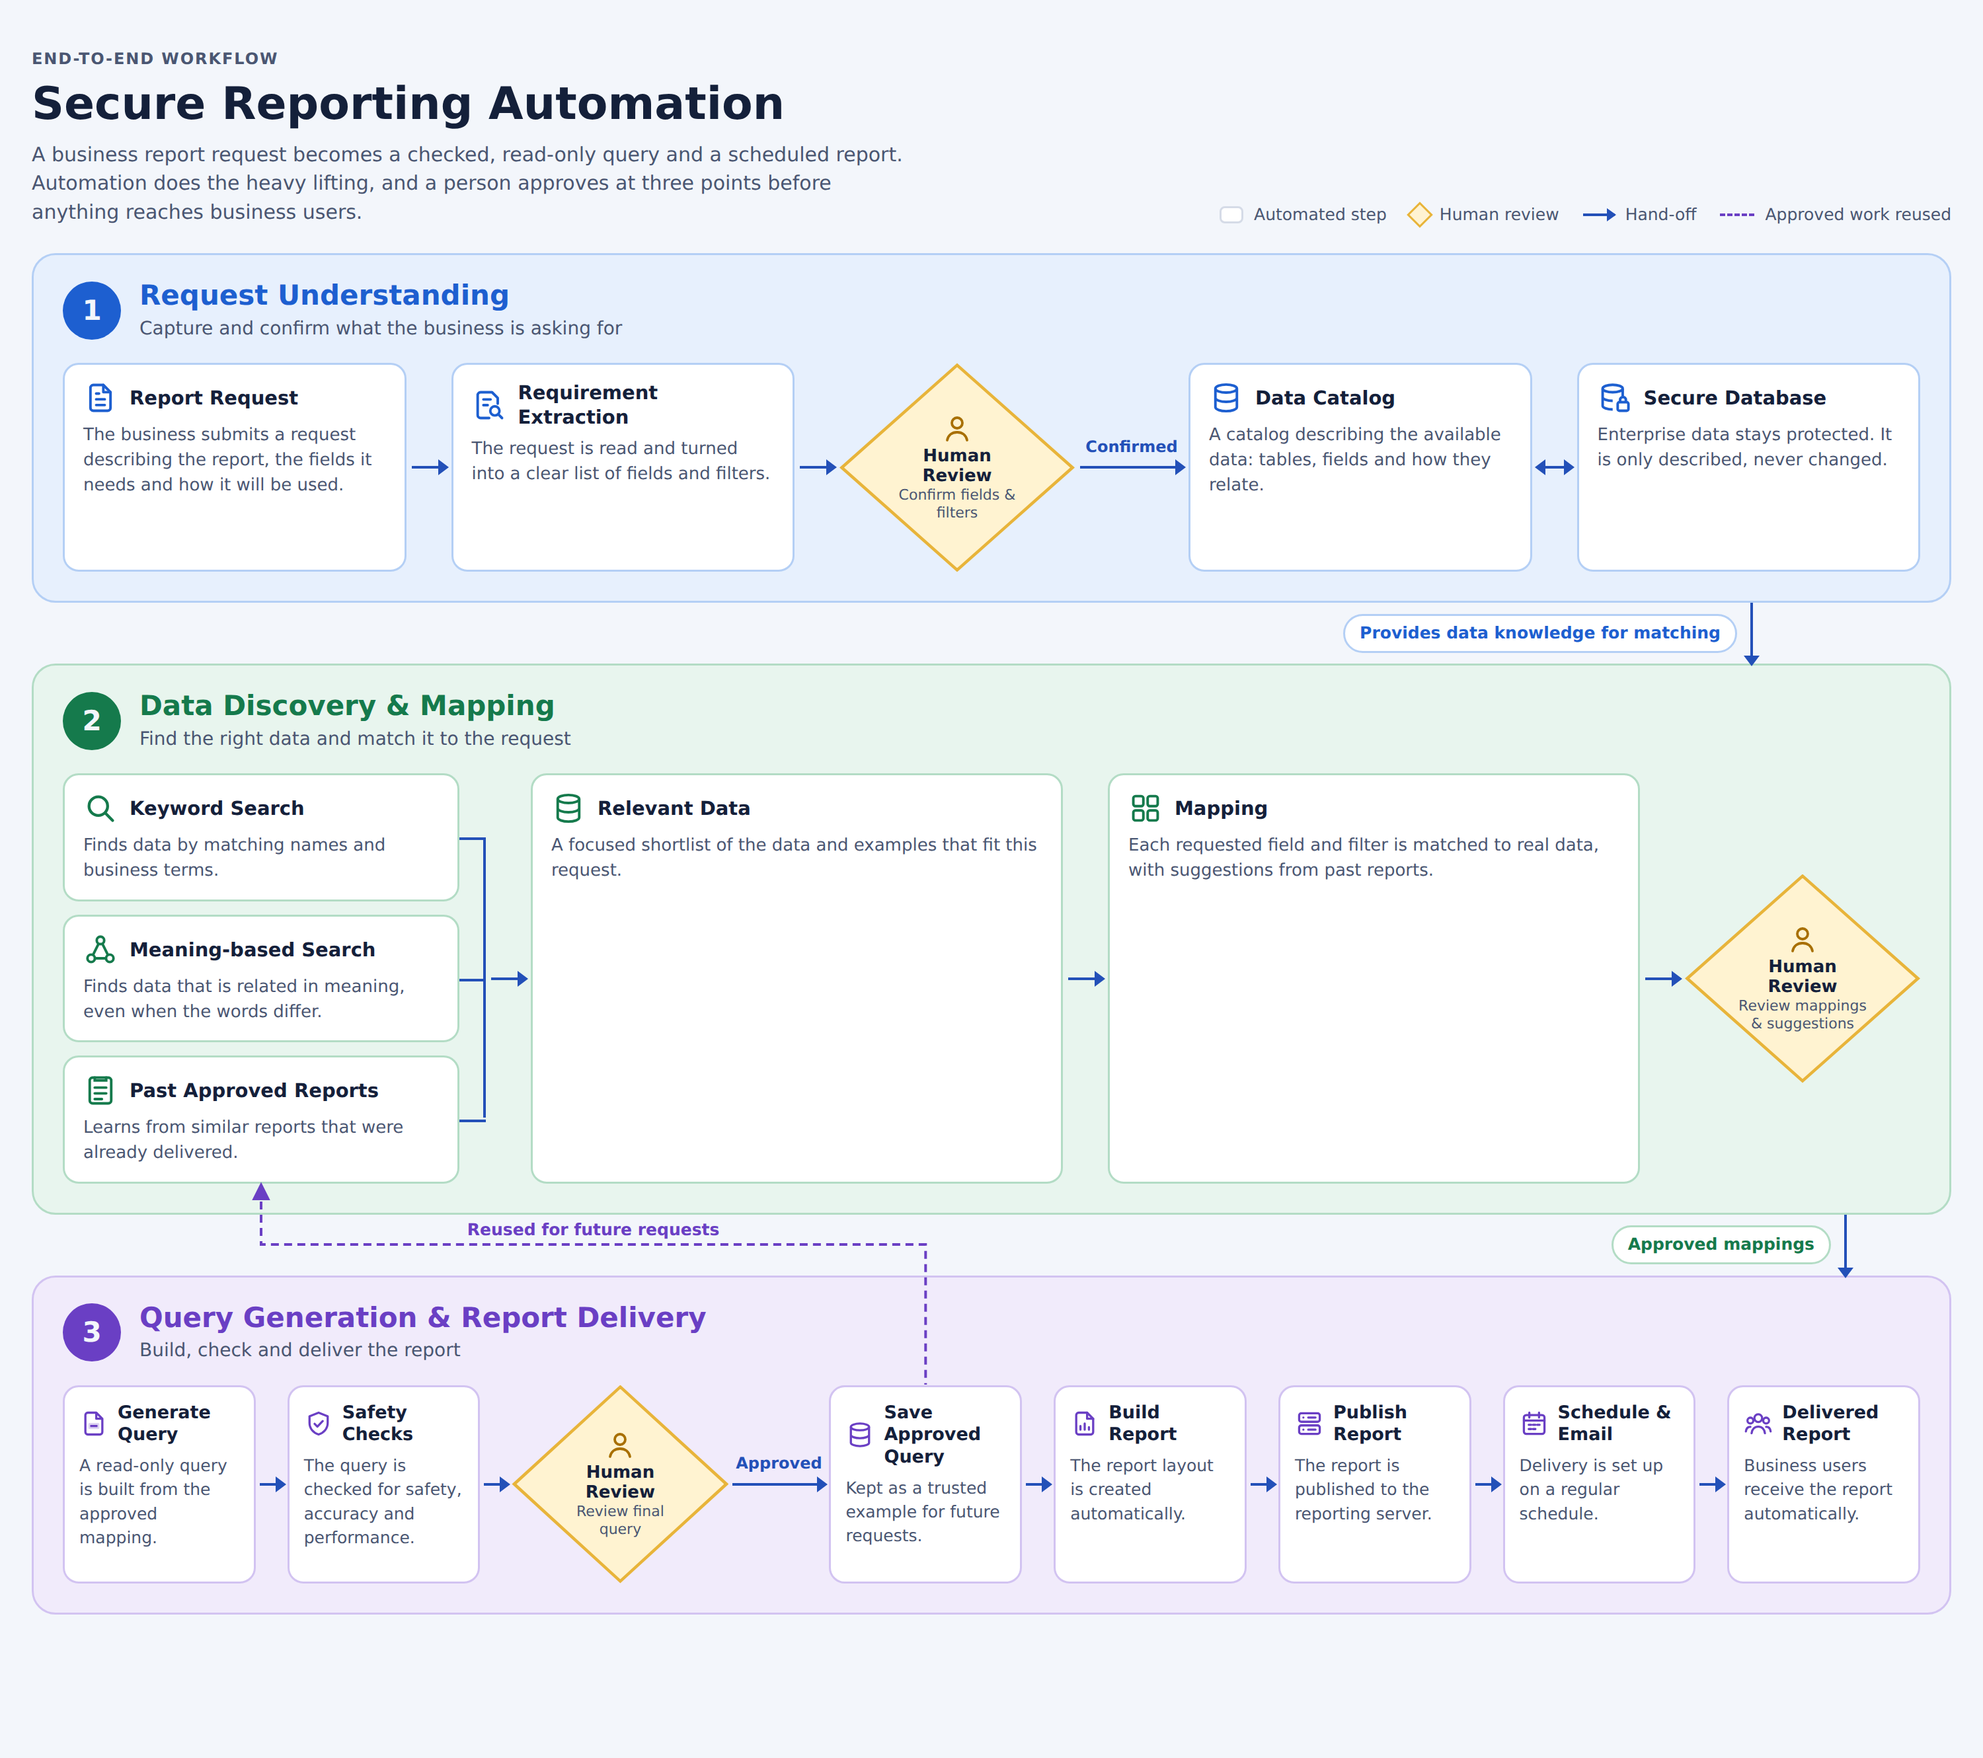
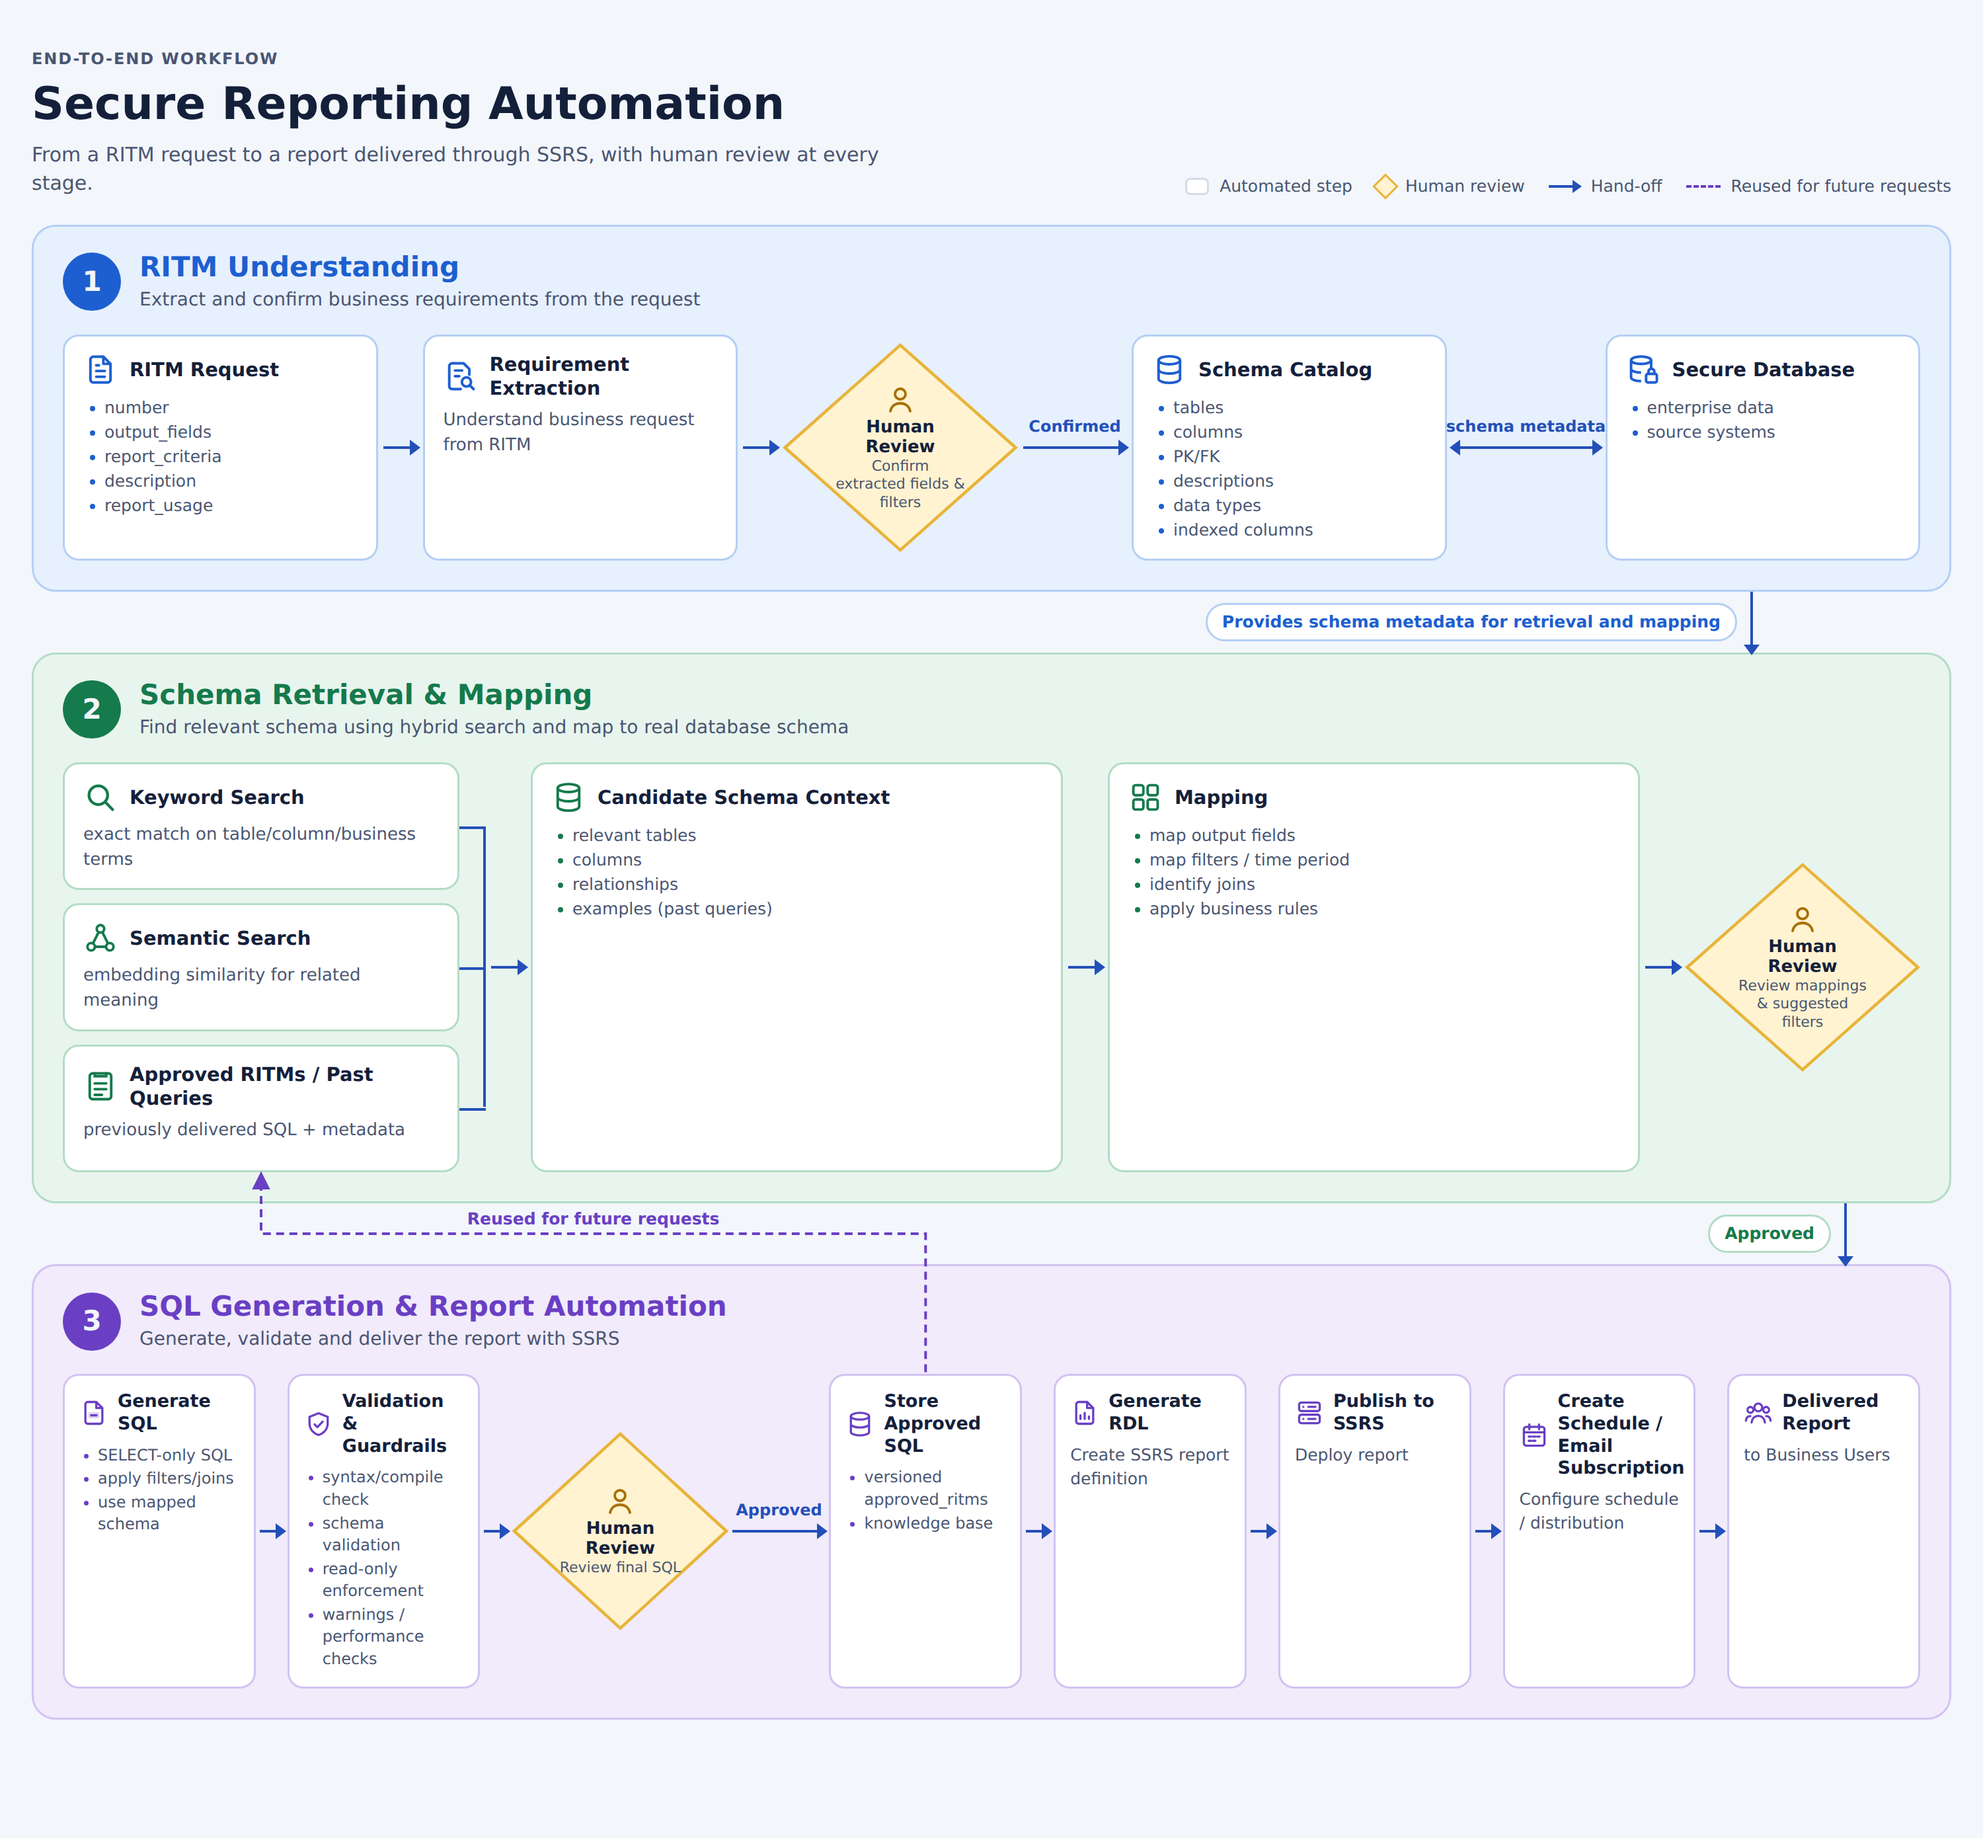
Match workflow diagram wording to the reference design
Claude-Session: https://claude.ai/code/session_01UDvfRKTWcwQ7bnJyXfYpaQ

diff --git a/docs/secure-reporting-automation.html b/docs/secure-reporting-automation.html
@@ -85,6 +85,7 @@ h1{font-family:var(--display); font-size:clamp(24px,3vw,34px); line-height:1.15;
 .arr::after{content:""; position:absolute; right:-2px; top:-5px; border:6px solid transparent; border-left:8px solid var(--arrow); border-right:0}
 .arr.both::before{content:""; position:absolute; left:-2px; top:-5px; border:6px solid transparent; border-right:8px solid var(--arrow); border-left:0}
 .arr.lab{flex-basis:78px}
+.arr.lab.wide{flex-basis:112px}
 .arr .lbl{position:absolute; bottom:8px; left:50%; transform:translateX(-50%); font-size:12px; font-weight:700; color:var(--arrow); white-space:nowrap}
 
 /* review gate (diamond) */
@@ -124,6 +125,7 @@ footer b{color:var(--ink); font-weight:600}
   .p3 .card h3{font-size:13.5px; gap:7px}
   .p3 .card h3 svg{width:22px; height:22px}
   .p3 .card .sub{font-size:12.5px}
+  .p3 .card ul{font-size:12px; padding-left:14px}
   .p3 .arr{flex-basis:18px; margin:0 3px}
   .p3 .arr.lab{flex-basis:70px}
   .p3 .gate{flex-basis:164px; height:150px; padding:0 34px}
@@ -177,13 +179,13 @@ footer b{color:var(--ink); font-weight:600}
     <div>
       <p class="eyebrow">End-to-end workflow</p>
       <h1>Secure Reporting Automation</h1>
-      <p class="lede">A business report request becomes a checked, read-only query and a scheduled report. Automation does the heavy lifting, and a person approves at three points before anything reaches business users.</p>
+      <p class="lede">From a RITM request to a report delivered through SSRS, with human review at every stage.</p>
     </div>
     <div class="legend" aria-label="Legend">
       <span><i class="lg-card"></i>Automated step</span>
       <span><i class="lg-gate"></i>Human review</span>
       <span><i class="lg-arrow"></i>Hand-off</span>
-      <span><i class="lg-loop"></i>Approved work reused</span>
+      <span><i class="lg-loop"></i>Reused for future requests</span>
     </div>
   </header>
 
@@ -193,131 +195,131 @@ footer b{color:var(--ink); font-weight:600}
       <section class="phase p1" aria-labelledby="h-p1">
         <div class="phase-head">
           <span class="num">1</span>
-          <div><h2 id="h-p1">Request Understanding</h2><p>Capture and confirm what the business is asking for</p></div>
+          <div><h2 id="h-p1">RITM Understanding</h2><p>Extract and confirm business requirements from the request</p></div>
         </div>
         <div class="flow">
           <article class="card">
-            <h3><svg><use href="#i-doc"/></svg>Report Request</h3>
-            <p class="sub">The business submits a request describing the report, the fields it needs and how it will be used.</p>
+            <h3><svg><use href="#i-doc"/></svg>RITM Request</h3>
+            <ul><li>number</li><li>output_fields</li><li>report_criteria</li><li>description</li><li>report_usage</li></ul>
           </article>
           <div class="arr"></div>
           <article class="card">
             <h3><svg><use href="#i-docsearch"/></svg>Requirement Extraction</h3>
-            <p class="sub">The request is read and turned into a clear list of fields and filters.</p>
+            <p class="sub">Understand business request from RITM</p>
           </article>
           <div class="arr"></div>
           <div class="gate">
             <svg><use href="#i-person"/></svg>
             <b>Human Review</b>
-            <small>Confirm fields &amp; filters</small>
+            <small>Confirm extracted fields &amp; filters</small>
           </div>
           <div class="arr lab"><span class="lbl">Confirmed</span></div>
           <article class="card">
-            <h3><svg><use href="#i-db"/></svg>Data Catalog</h3>
-            <p class="sub">A catalog describing the available data: tables, fields and how they relate.</p>
+            <h3><svg><use href="#i-db"/></svg>Schema Catalog</h3>
+            <ul><li>tables</li><li>columns</li><li>PK/FK</li><li>descriptions</li><li>data types</li><li>indexed columns</li></ul>
           </article>
-          <div class="arr both"></div>
+          <div class="arr both lab wide"><span class="lbl">schema metadata</span></div>
           <article class="card">
             <h3><svg><use href="#i-dblock"/></svg>Secure Database</h3>
-            <p class="sub">Enterprise data stays protected. It is only described, never changed.</p>
+            <ul><li>enterprise data</li><li>source systems</li></ul>
           </article>
         </div>
       </section>
 
       <div class="handoff p1" style="--hand-x:150px">
-        <span class="pill">Provides data knowledge for matching</span>
+        <span class="pill">Provides schema metadata for retrieval and mapping</span>
         <span class="down"></span>
       </div>
 
       <section class="phase p2" aria-labelledby="h-p2">
         <div class="phase-head">
           <span class="num">2</span>
-          <div><h2 id="h-p2">Data Discovery &amp; Mapping</h2><p>Find the right data and match it to the request</p></div>
+          <div><h2 id="h-p2">Schema Retrieval &amp; Mapping</h2><p>Find relevant schema using hybrid search and map to real database schema</p></div>
         </div>
         <div class="flow">
           <div class="sources">
             <article class="card">
               <h3><svg><use href="#i-search"/></svg>Keyword Search</h3>
-              <p class="sub">Finds data by matching names and business terms.</p>
+              <p class="sub">exact match on table/column/business terms</p>
             </article>
             <article class="card">
-              <h3><svg><use href="#i-graph"/></svg>Meaning-based Search</h3>
-              <p class="sub">Finds data that is related in meaning, even when the words differ.</p>
+              <h3><svg><use href="#i-graph"/></svg>Semantic Search</h3>
+              <p class="sub">embedding similarity for related meaning</p>
             </article>
             <article class="card" id="approved-src">
-              <h3><svg><use href="#i-list"/></svg>Past Approved Reports</h3>
-              <p class="sub">Learns from similar reports that were already delivered.</p>
+              <h3><svg><use href="#i-list"/></svg>Approved RITMs / Past Queries</h3>
+              <p class="sub">previously delivered SQL + metadata</p>
             </article>
           </div>
           <div class="arr"></div>
           <article class="card">
-            <h3><svg><use href="#i-db"/></svg>Relevant Data</h3>
-            <p class="sub">A focused shortlist of the data and examples that fit this request.</p>
+            <h3><svg><use href="#i-db"/></svg>Candidate Schema Context</h3>
+            <ul><li>relevant tables</li><li>columns</li><li>relationships</li><li>examples (past queries)</li></ul>
           </article>
           <div class="arr"></div>
           <article class="card">
             <h3><svg><use href="#i-grid"/></svg>Mapping</h3>
-            <p class="sub">Each requested field and filter is matched to real data, with suggestions from past reports.</p>
+            <ul><li>map output fields</li><li>map filters / time period</li><li>identify joins</li><li>apply business rules</li></ul>
           </article>
           <div class="arr"></div>
           <div class="gate">
             <svg><use href="#i-person"/></svg>
             <b>Human Review</b>
-            <small>Review mappings &amp; suggestions</small>
+            <small>Review mappings &amp; suggested filters</small>
           </div>
         </div>
       </section>
 
       <div class="handoff p2" style="--hand-x:79px">
-        <span class="pill">Approved mappings</span>
+        <span class="pill">Approved</span>
         <span class="down"></span>
       </div>
 
       <section class="phase p3" aria-labelledby="h-p3">
         <div class="phase-head">
           <span class="num">3</span>
-          <div><h2 id="h-p3">Query Generation &amp; Report Delivery</h2><p>Build, check and deliver the report</p></div>
+          <div><h2 id="h-p3">SQL Generation &amp; Report Automation</h2><p>Generate, validate and deliver the report with SSRS</p></div>
         </div>
         <div class="flow">
           <article class="card">
-            <h3><svg><use href="#i-sql"/></svg>Generate Query</h3>
-            <p class="sub">A read-only query is built from the approved mapping.</p>
+            <h3><svg><use href="#i-sql"/></svg>Generate SQL</h3>
+            <ul><li>SELECT-only SQL</li><li>apply filters/joins</li><li>use mapped schema</li></ul>
           </article>
           <div class="arr"></div>
           <article class="card">
-            <h3><svg><use href="#i-shield"/></svg>Safety Checks</h3>
-            <p class="sub">The query is checked for safety, accuracy and performance.</p>
+            <h3><svg><use href="#i-shield"/></svg>Validation &amp; Guardrails</h3>
+            <ul><li>syntax/compile check</li><li>schema validation</li><li>read-only enforcement</li><li>warnings / performance checks</li></ul>
           </article>
           <div class="arr"></div>
           <div class="gate">
             <svg><use href="#i-person"/></svg>
             <b>Human Review</b>
-            <small>Review final query</small>
+            <small>Review final SQL</small>
           </div>
           <div class="arr lab"><span class="lbl">Approved</span></div>
           <article class="card" id="store">
-            <h3><svg><use href="#i-db"/></svg>Save Approved Query</h3>
-            <p class="sub">Kept as a trusted example for future requests.</p>
+            <h3><svg><use href="#i-db"/></svg>Store Approved SQL</h3>
+            <ul><li>versioned approved_ritms</li><li>knowledge base</li></ul>
           </article>
           <div class="arr"></div>
           <article class="card">
-            <h3><svg><use href="#i-rdl"/></svg>Build Report</h3>
-            <p class="sub">The report layout is created automatically.</p>
+            <h3><svg><use href="#i-rdl"/></svg>Generate RDL</h3>
+            <p class="sub">Create SSRS report definition</p>
           </article>
           <div class="arr"></div>
           <article class="card">
-            <h3><svg><use href="#i-server"/></svg>Publish Report</h3>
-            <p class="sub">The report is published to the reporting server.</p>
+            <h3><svg><use href="#i-server"/></svg>Publish to SSRS</h3>
+            <p class="sub">Deploy report</p>
           </article>
           <div class="arr"></div>
           <article class="card">
-            <h3><svg><use href="#i-cal"/></svg>Schedule &amp; Email</h3>
-            <p class="sub">Delivery is set up on a regular schedule.</p>
+            <h3><svg><use href="#i-cal"/></svg>Create Schedule / Email Subscription</h3>
+            <p class="sub">Configure schedule / distribution</p>
           </article>
           <div class="arr"></div>
           <article class="card">
             <h3><svg><use href="#i-people"/></svg>Delivered Report</h3>
-            <p class="sub">Business users receive the report automatically.</p>
+            <p class="sub">to Business Users</p>
           </article>
         </div>
       </section>
